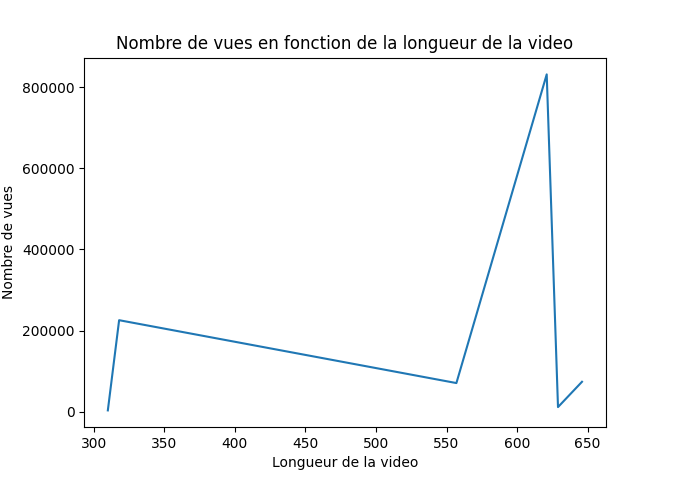
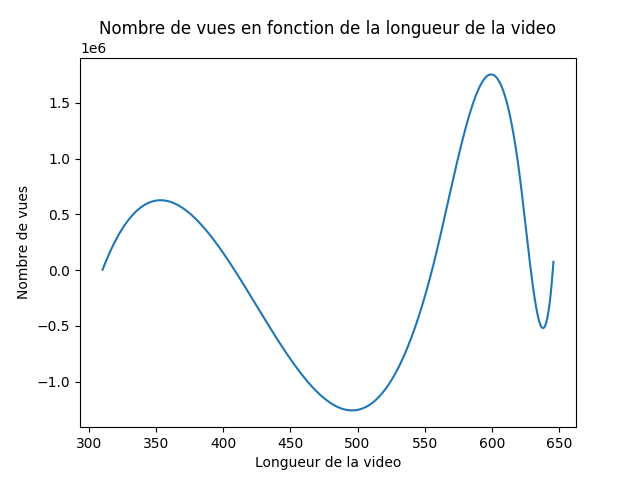
fix: smooth curve with scipy

diff --git a/src/create_plots.py b/src/create_plots.py
@@ -7,6 +7,7 @@ import collections
 
 from create_csv import create_dataframe
 from utils import tokenize, smoothify, get_total_string, percentify
+from scipy.interpolate import make_interp_spline
 
 def plot_nb_tokens_transcr(data):
     plt.bar(np.arange(len(data)), np.array(data["nb_tokens"]), color ='maroon', width = 0.4)
@@ -19,7 +20,10 @@ def plot_views_on_length(data):
     data = data[["views", "length"]].sort_values(by=["length"])
     views = np.array(data["views"])
     length = np.array(data["length"])
-    plt.plot(length, views)
+    X_Y_Spline = make_interp_spline(length, views)
+    X_ = np.linspace(length.min(), length.max(), 500)
+    Y_ = X_Y_Spline(X_)
+    plt.plot(X_, Y_)
     plt.title("Nombre de vues en fonction de la longueur de la video")
     plt.xlabel("Longueur de la video")
     plt.ylabel("Nombre de vues")
@@ -49,9 +53,9 @@ def main():
     transcriptions = json_data["transcription"].tolist()
     json_data["nb_tokens"] = [len(tokenize(transcription)) for transcription in transcriptions]
     # print(json_data)
-    # plot_views_on_length(json_data)
+    plot_views_on_length(json_data)
     # plot_nb_tokens_transcr(json_data)
-    plot_zipf(json_data)
+    # plot_zipf(json_data)
 
 if __name__ == "__main__":
     main()
